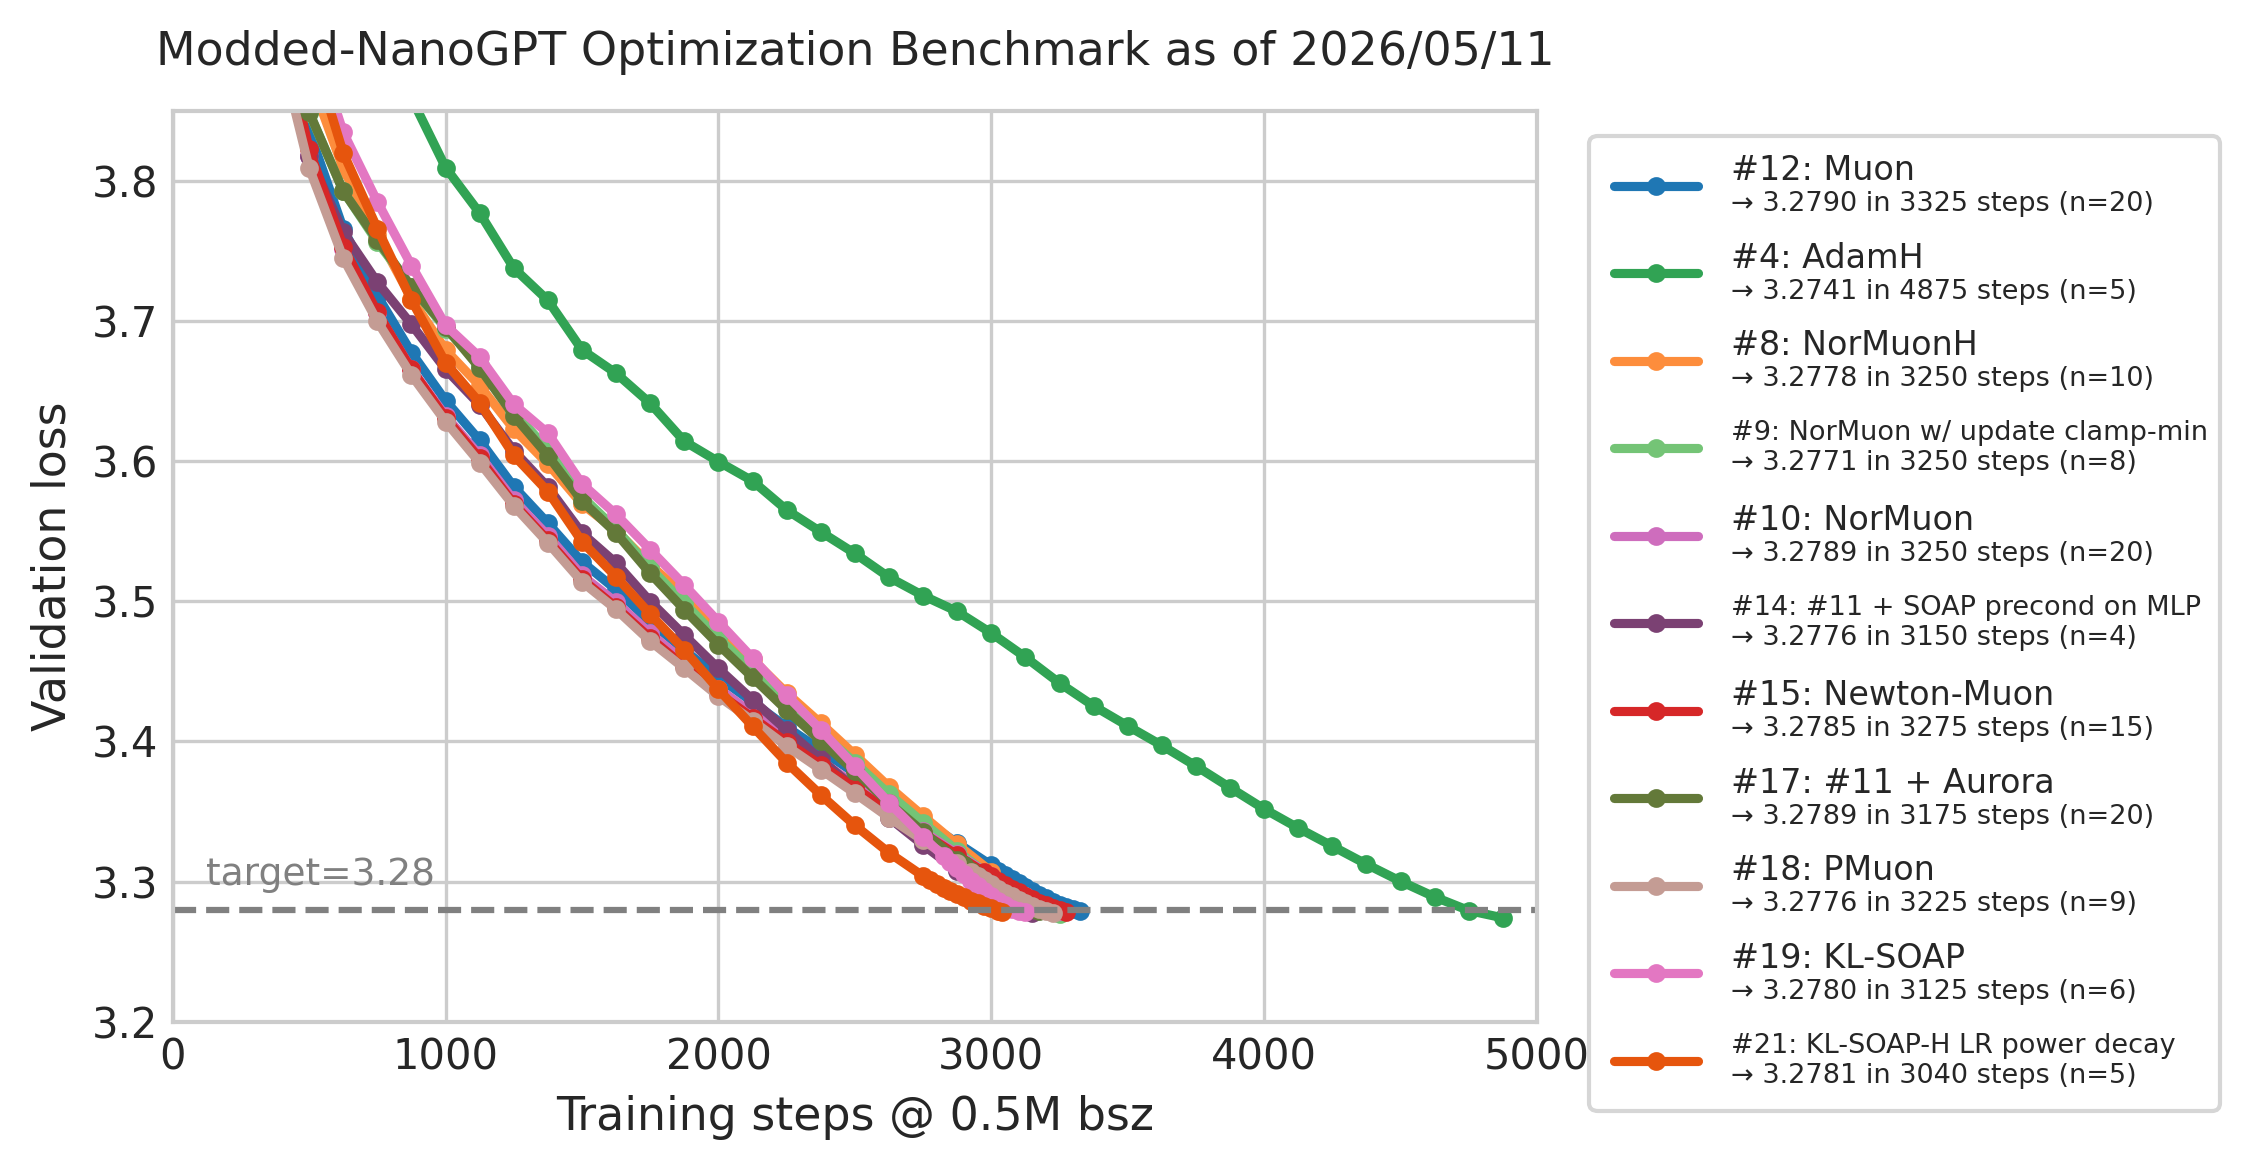
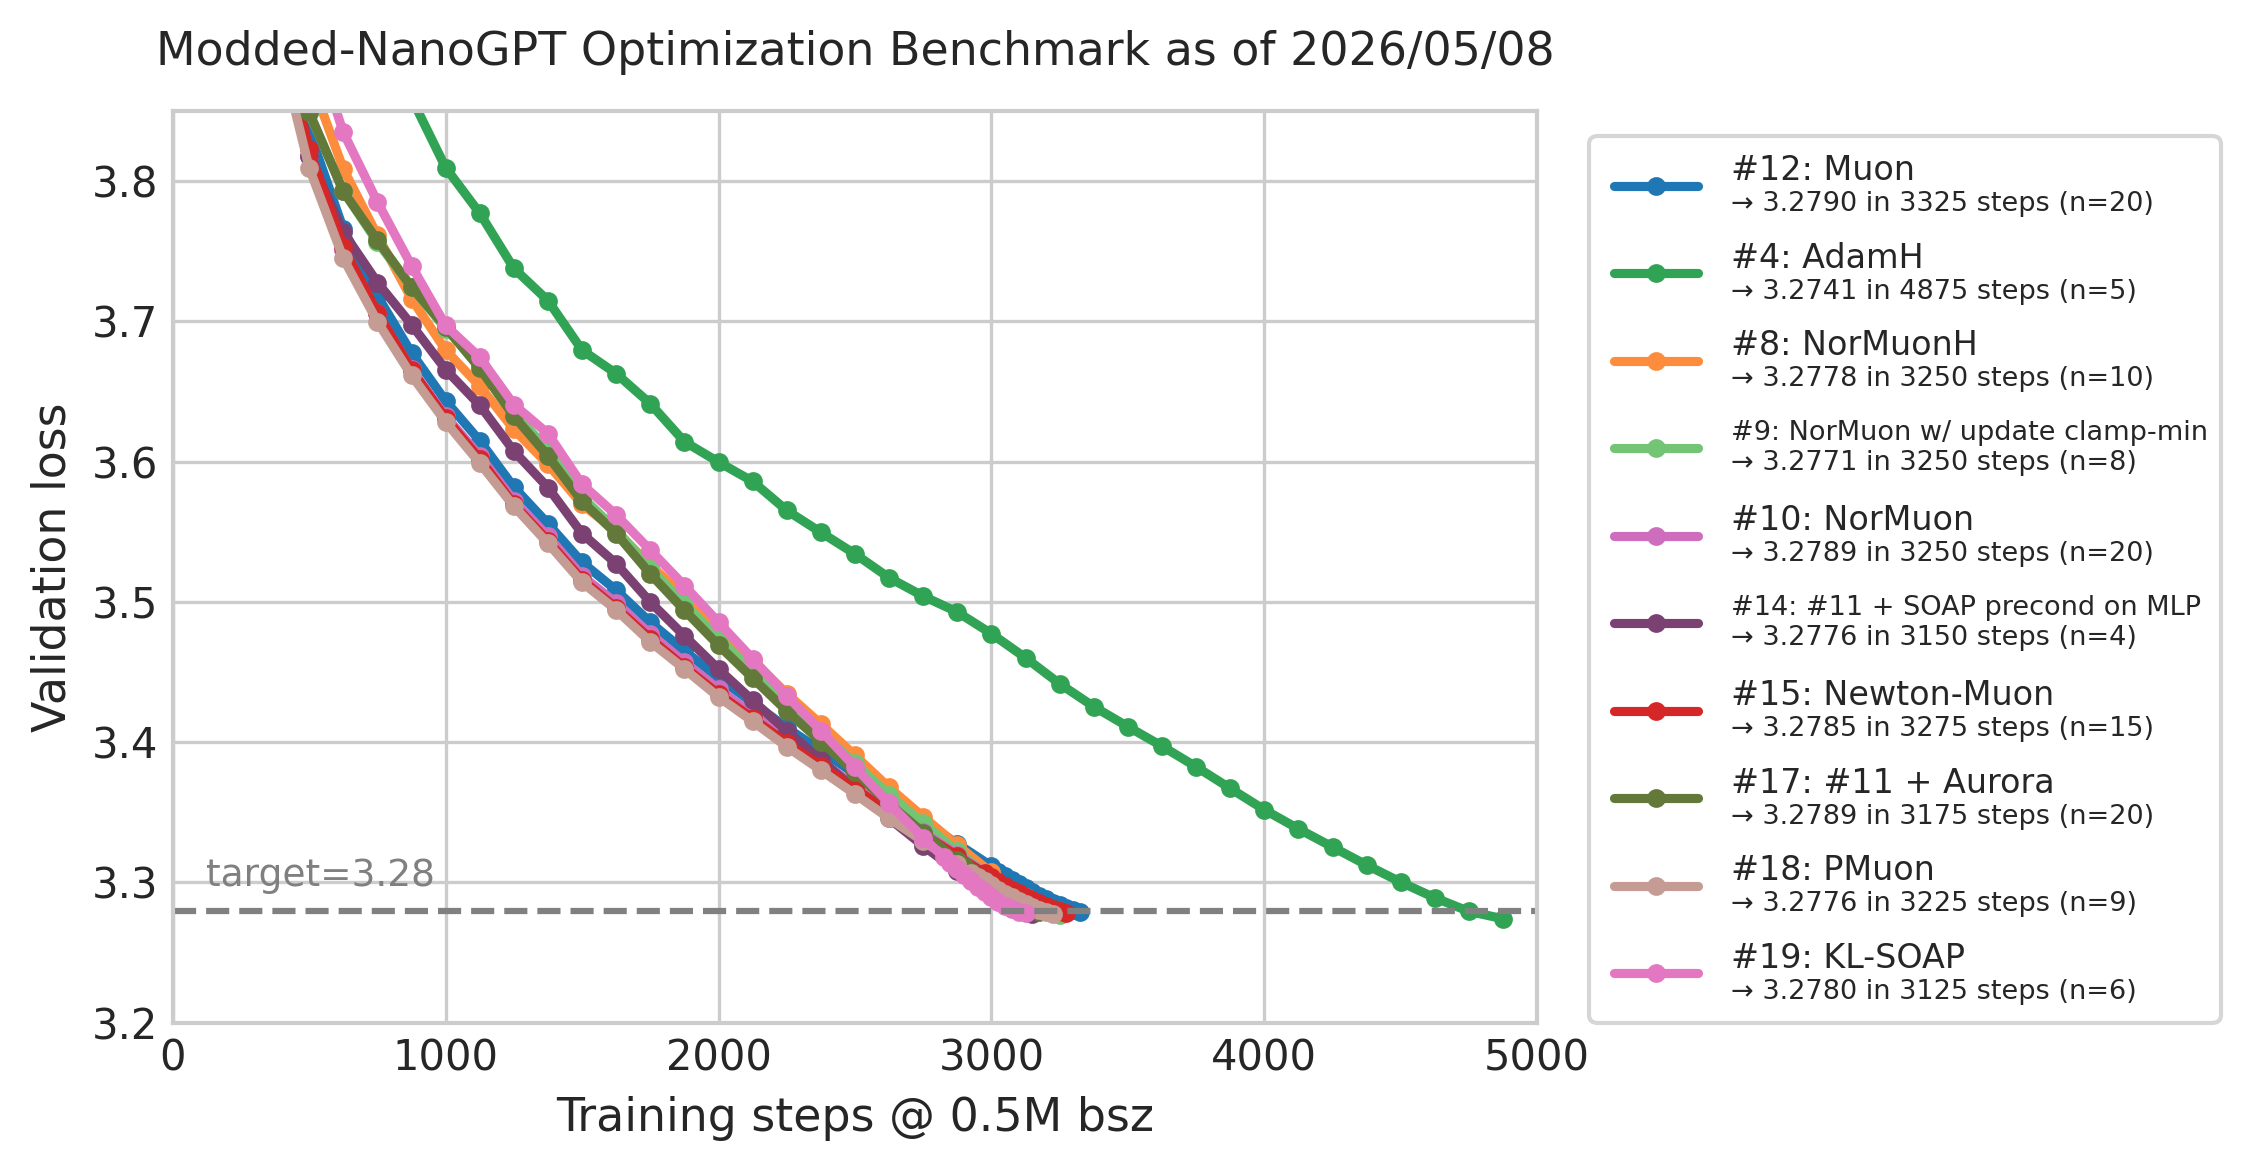
Avoid Track 3 leaderboard merge conflicts

diff --git a/records/track_3_optimization/make_figures.py b/records/track_3_optimization/make_figures.py
@@ -215,7 +215,6 @@ for suffix in ["wr", "best"]:
             17: '#11 + Aurora',
             18: 'PMuon',
             19: 'KL-SOAP',
-            21: 'KL-SOAP-H LR power decay',
         }
     else:
         assert False

diff --git a/records/track_3_optimization/README.md b/records/track_3_optimization/README.md
@@ -54,7 +54,6 @@ If it fails to reproduce (i.e., we get statistical evidence that its mean is abo
 | 18 | 3225 | 3.2776 (n=9)✓ | [PMuon](results/20260507_pmuon/README.md) (Muon + bilateral streaming covariance power preconditioning), lr=.035 wd=.025 γ=.3 β=.95 | 2026/05/07 | [log](results/20260507_pmuon/54fc0541-7a62-4772-a8f8-d3a46ad10dba.txt) | [PR](https://github.com/KellerJordan/modded-nanogpt/pull/285) | @zzp1012 |
 | 19 | 3125 | 3.2780 (n=6)✓ | Setup from #8, with NorMuonH replaced by [KL-SOAP](https://arxiv.org/abs/2509.03378) with hyperball optimization, precondition_frequency=1, lr=.018, beta1=.95, beta2=.9, shampoo_beta=.9  | 2026/05/08 | [log](results/20260508_klsoap_h_clean_tuple_sweep/b1095_sh090/klsoap-h-b1095_sh090-K3125-seed-1.full.txt) | [PR](https://github.com/KellerJordan/modded-nanogpt/pull/290) | @kaiyue-wen |
 | 20 | 3030(!) | 3.2790 (n=30)✓ | Setup from #16, plus interpolation between Contra-Muon and new method Soft-Muon, plus tuned lr schedule inherited from thingy | 2026/05/09 | [log](results/20260509_contra_soft_muon/03c36e81-e2e5-4916-bf16-0141999b1dbb.txt) | [PR](https://github.com/KellerJordan/modded-nanogpt/pull/291) | @nilin |
-| 21 | 3040 | 3.2781 (n=5)✓ | KL-SOAP-H from #19 with power LR decay (`lr_power=1.5`), nonzero LR floors, a 3125-step schedule horizon, and a fixed 3040-step stop | 2026/05/11 | [log](results/20260511_klsoap_h_lr_power_decay/01906576-8b3d-4bd2-a73f-23997f602ec1.txt) | TBD | @chenchenygu |
 
 <table>
   <tr>